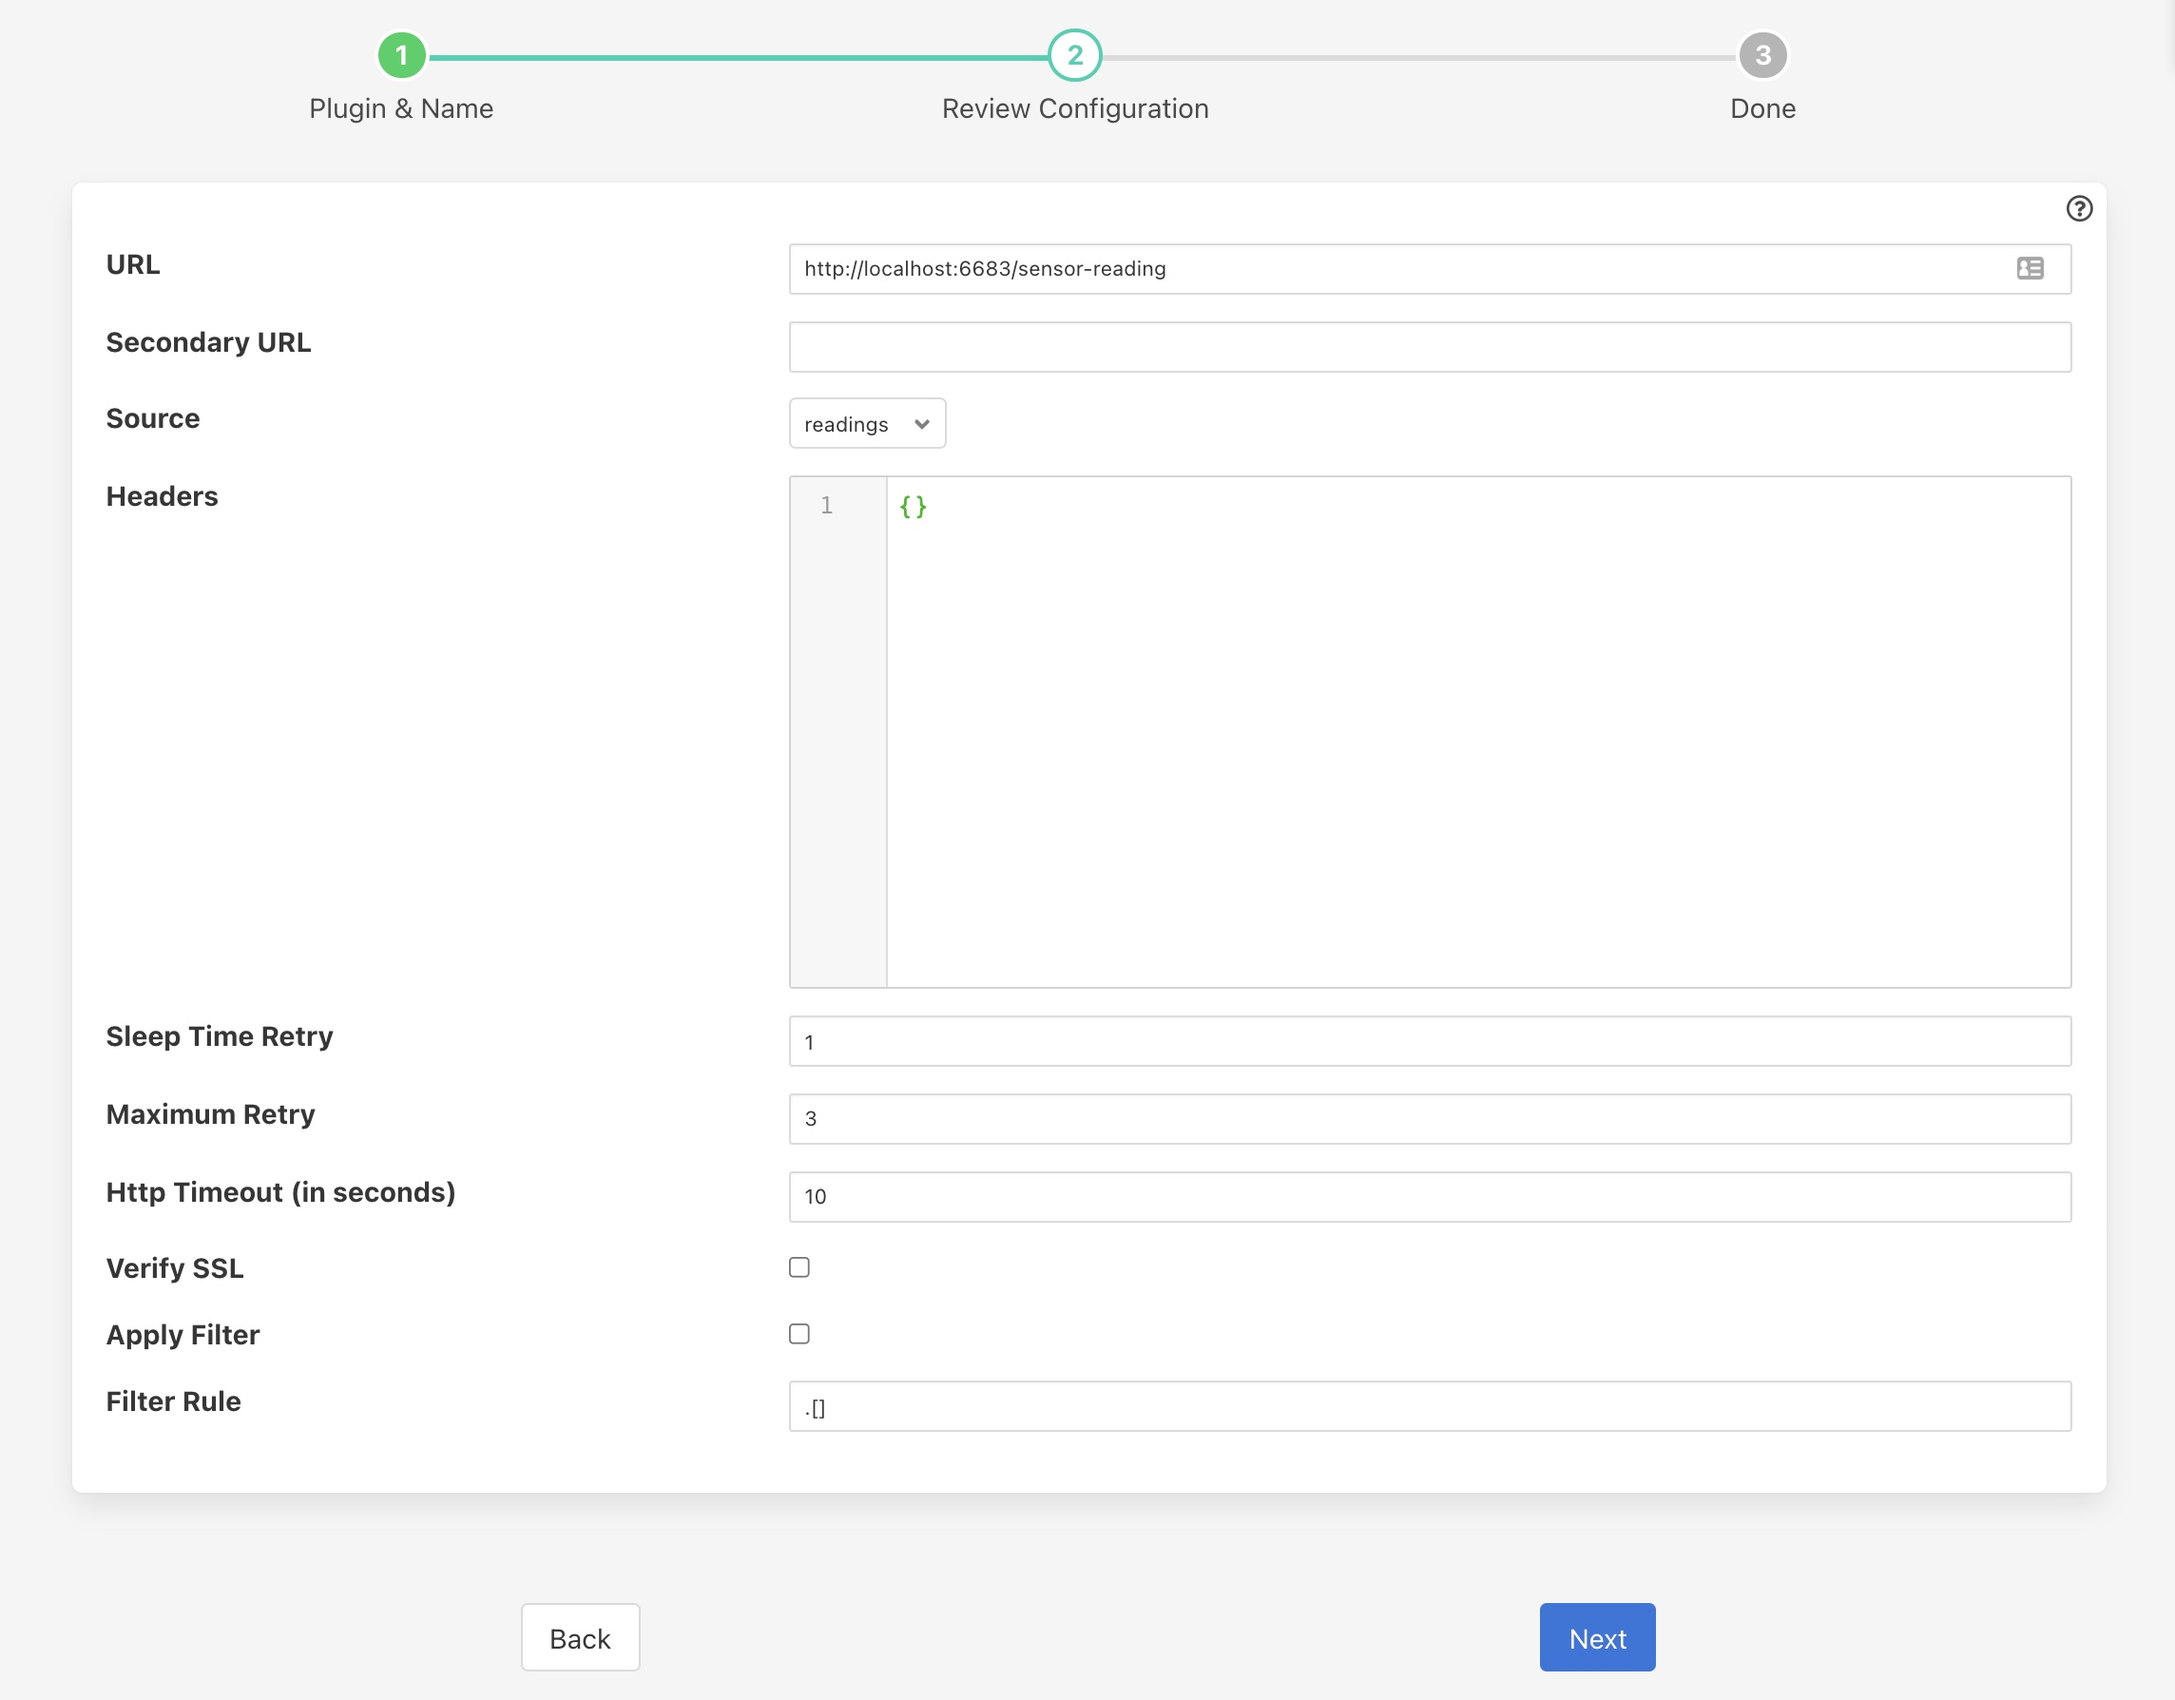
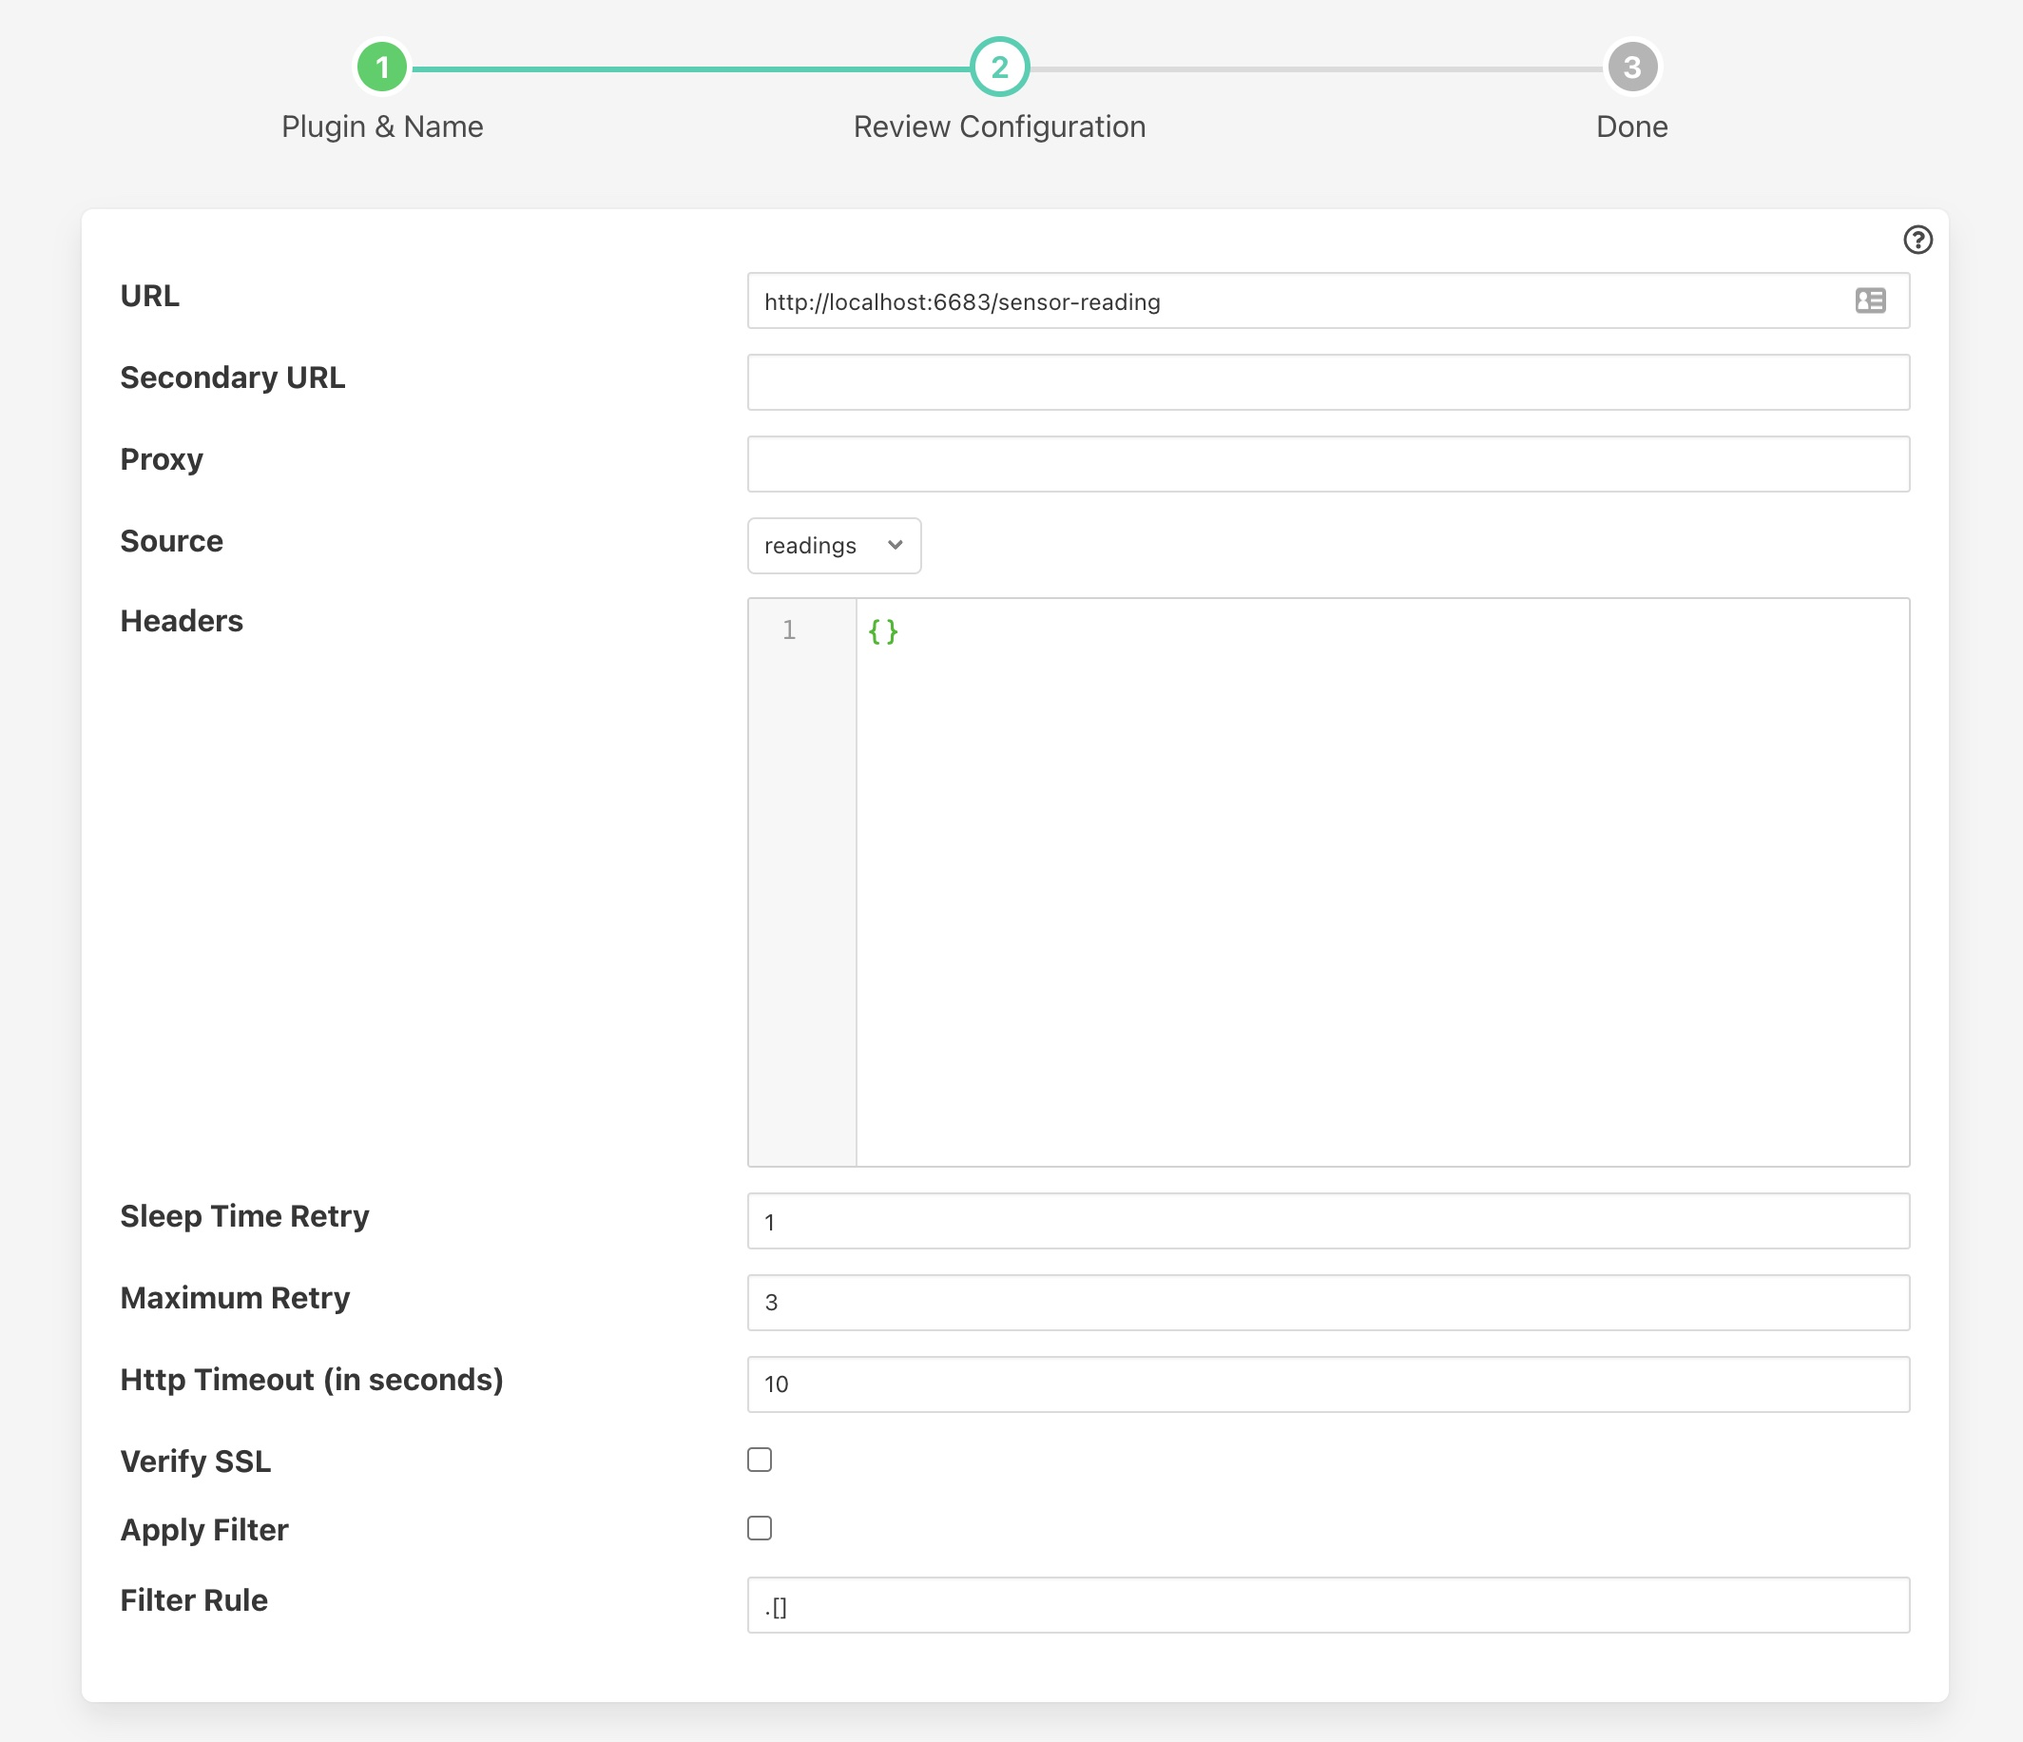
FOGL-6196 Add documentation and improve error handlign for proxy setup

diff --git a/north_http.cpp b/north_http.cpp
@@ -34,6 +34,28 @@ HttpNorth::HttpNorth(ConfigCategory *config) : m_failedOver(false)
 	if (config->itemExists("proxy"))
 	{
 		string proxy = config->getValue("proxy");
+		if (proxy.compare(0, 5, "http:") == 0 || proxy.compare(0, 5, "HTTP:") == 0 
+				|| proxy.compare(0, 6, "https:") == 0  || proxy.compare(0, 6, "HTTPS:") == 0)
+		{
+			Logger::getLogger()->warn("Expected proxy address without protocol prefix");
+			size_t found = proxy.find_first_of("//");
+			if (found != string::npos)
+			{
+				found += 2;
+				string s = proxy.substr(found);
+				found = s.find_first_of("/");
+				if (found != string::npos)
+				{
+					proxy = s.substr(0, found);
+				}
+				else
+				{
+					proxy = s;
+				}
+				Logger::getLogger()->warn("Stripped of URL components to use '%s' as proxy", proxy.c_str());
+			}
+		}
+		Logger::getLogger()->info("Using proxy server %s", proxy.c_str());
 		m_primary->setProxy(proxy);
 		if (m_secondary)
 			m_secondary->setProxy(proxy);

diff --git a/plugin.cpp b/plugin.cpp
@@ -42,7 +42,7 @@ static const char *default_config = QUOTE({
 			"displayName": "Secondary URL"
 			},
 		"proxy": {
-			"description": "The name or address and port of a proxy server to use",
+			"description": "The name or address and port of a proxy server to use. This should be formatted as <hostname>:<port> or <address:port>",
 			"type": "string",
 			"default": "",
 			"order": "3",

diff --git a/docs/index.rst b/docs/index.rst
@@ -47,6 +47,8 @@ To create a north task to send to another Fledge you should first create the |ht
 
     - **Source**: The data to send, this may be either the reading data or the statistics data
 
+    - **Proxy**: The host and port of the proxy server to use. Leave empty is a proxy is not in use. This should be formatted as an address followed by a colon and then the port or a hostname followed by a colon and then the port. E.g. 192.168.0.42:8080. If the default port is used then the port may be omitted.
+
     - **Headers**: An optional set of header fields to send in every request. The headers are defined as a JSON document with the name of each item in the document as header field name and the value the value of the header field.
 
     - **Sleep Time Retry**: A tuning parameter used to control how often a connection is retried to the up stream Fledge if it is not available. On every retry the time will be doubled.
